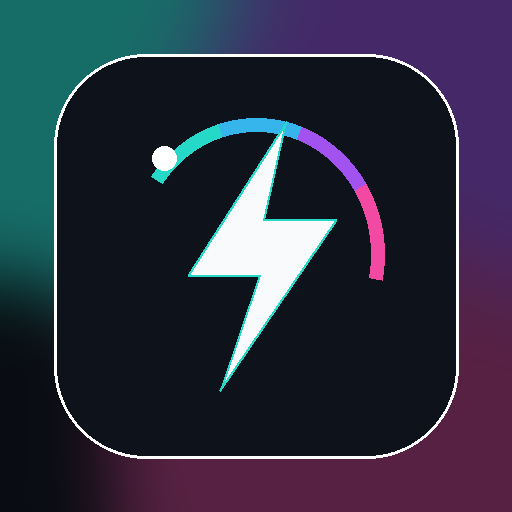
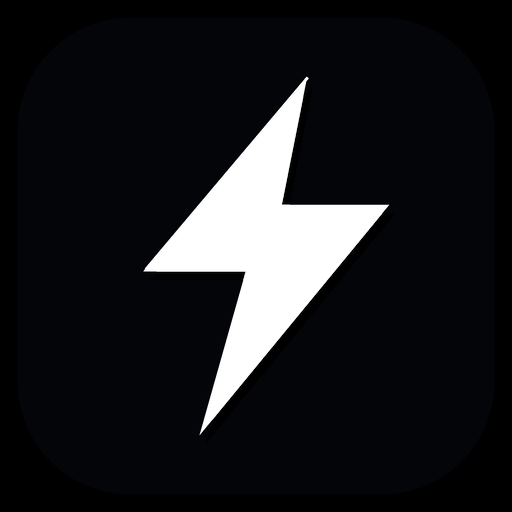
v10.1

diff --git a/index.html b/index.html
@@ -8,8 +8,9 @@
   <meta name="apple-mobile-web-app-title" content="Ventas SPH">
   <meta name="apple-mobile-web-app-status-bar-style" content="default">
   <title>Ventas SPH</title>
+  <link rel="icon" href="favicon.svg" type="image/svg+xml">
   <link rel="manifest" href="manifest.json">
-  <link rel="apple-touch-icon" href="icon-192.png">
+  <link rel="apple-touch-icon" sizes="180x180" href="icon-180.png">
   <style>
     :root{
       --bg:#080b10;
@@ -120,39 +121,27 @@
     }
 
     .appLogo{
-      width:34px;
-      height:34px;
-      border-radius:12px;
+      width:32px;
+      height:32px;
       flex:0 0 auto;
-      background:
-        radial-gradient(circle at 28% 20%,rgba(255,255,255,.42),transparent 20%),
-        conic-gradient(from 145deg,var(--turq),var(--blue),var(--lila),var(--pink),var(--turq));
-      box-shadow:0 0 0 1px rgba(255,255,255,.16), 0 10px 26px rgba(37,216,199,.16);
       position:relative;
-      overflow:hidden;
+      background:transparent;
+      border-radius:0;
+      box-shadow:none;
+      overflow:visible;
     }
 
     .appLogo:before{
       content:"";
       position:absolute;
-      inset:7px;
-      border-radius:9px;
-      background:linear-gradient(145deg,#0b1018,#151c27);
-      box-shadow:inset 0 0 0 1px rgba(255,255,255,.10);
+      inset:2px 6px;
+      background:var(--text);
+      clip-path:polygon(58% 0,18% 52%,46% 52%,34% 100%,84% 38%,55% 38%);
+      filter:drop-shadow(0 8px 16px var(--primaryShadow));
     }
 
     .appLogo:after{
-      content:"";
-      position:absolute;
-      left:10px;
-      top:9px;
-      width:14px;
-      height:14px;
-      border-right:3px solid rgba(255,255,255,.92);
-      border-bottom:3px solid rgba(255,255,255,.92);
-      transform:rotate(-35deg);
-      border-radius:2px;
-      filter:drop-shadow(0 0 6px rgba(37,216,199,.45));
+      content:none;
     }
 
     .day-card.clickable{
@@ -475,6 +464,17 @@
       color:var(--muted);
       line-height:1.38;
       font-size:.84rem;
+    }
+
+    .settingsInfoText{
+      margin-top:10px;
+      color:var(--muted);
+      font-size:.82rem;
+      line-height:1.42;
+      background:transparent!important;
+      border:0!important;
+      padding:0!important;
+      box-shadow:none!important;
     }
 
     .goalbar{
@@ -1208,8 +1208,8 @@
     .panel,.card,.day-card,.sale-box{background:linear-gradient(180deg,var(--glass1),var(--glass2))!important;border-color:var(--line)!important;box-shadow:var(--shadow)!important;}
     .detailSheet,.mainMenuPanel{background:var(--sheetBg)!important;border-color:var(--line)!important;}
     .mainMenuOverlay,.detailOverlay{background:var(--menuOverlay)!important;}
-    .appLogo{background:radial-gradient(circle at 28% 20%,rgba(255,255,255,.42),transparent 20%),conic-gradient(from 145deg,var(--turq),var(--blue),var(--lila),var(--pink),var(--turq))!important;box-shadow:0 0 0 1px var(--line),0 10px 26px var(--primaryShadow)!important;}
-    .appLogo:before{background:var(--logoCore)!important;}
+    .appLogo{background:transparent!important;box-shadow:none!important;}
+    .appLogo:before{background:var(--appTopText, var(--text))!important;}
     input,select,textarea{background:var(--fieldBg)!important;border-color:var(--controlBorder)!important;color:var(--text)!important;}
     input[type="month"],input[type="date"]{color-scheme:inherit;}
     input:focus,select:focus,textarea:focus{border-color:color-mix(in srgb,var(--turq) 80%,white)!important;box-shadow:0 0 0 4px color-mix(in srgb,var(--turq) 18%,transparent)!important;}
@@ -2491,7 +2491,7 @@
             </select>
           </label>
         </div>
-        <div class="hint">Puedes dejarlo automático para que siga el iPhone, o forzarlo en claro/oscuro. El color cambia botones, menú, barras y acentos principales.</div>
+        <div class="settingsInfoText">Puedes dejarlo automático para que siga el iPhone, o forzarlo en claro/oscuro. El color cambia botones, menú, barras y acentos principales.</div>
       </div>
 
       <div class="panel">
@@ -2684,7 +2684,7 @@
 
   var SERVICES = [{"id":"none","name":"Sin SVA","basePrice":0,"price":0,"promo":""},{"id":"ta24","name":"TA24H","basePrice":4.12,"price":4.12,"promo":"Para todos"},{"id":"ta24plus","name":"TA24H Plus","basePrice":5.78,"price":5.78,"promo":"Para todos"},{"id":"ta24pyme20","name":"TA24H Pyme 2.0","basePrice":8.26,"price":8.26,"promo":"Para todos"},{"id":"ta24pyme30","name":"TA24H Pyme 3.0","basePrice":10.73,"price":10.73,"promo":"Para todos"},{"id":"sihconfort","name":"SIHConfort","basePrice":8.26,"price":8.26,"promo":"Para todos"},{"id":"sig","name":"SIG","basePrice":11.15,"price":11.15,"promo":"Para todos"},{"id":"tag","name":"TAG","basePrice":9.08,"price":9.08,"promo":"Para todos"},{"id":"ta24gas","name":"TA24HGas","basePrice":4.12,"price":4.12,"promo":"Para todos"},{"id":"ta24plusgas","name":"TA24H Plus Gas","basePrice":5.78,"price":5.78,"promo":"Para todos"},{"id":"tvmovistarplus","name":"TVMovistarPlus+","basePrice":8.26,"price":8.26,"promo":"Para todos"}];
 
-  var TARIFFS = [{"id":"v35-10","name":"V35","group":"Precio fijo","type":"luz","maxPower":10,"p1":0.090137,"p2":0.090137,"energy":0.0999,"svaMandatory":true,"permissionSva":false,"svaLabel":"SVA obligatorio","cashbackEligible":false,"notes":"Potencia permitida: hasta 10 kW. TA24H Plus obligatorio.","exc":0,"isBvSolar":false,"energyIva":0.120879,"p1Iva":0.109066,"p2Iva":0.109066,"shortName":"V35"},{"id":"v34-15","name":"V34","group":"Precio fijo","type":"luz","maxPower":15,"p1":0.090137,"p2":0.090137,"energy":0.1099,"svaMandatory":true,"permissionSva":false,"svaLabel":"SVA obligatorio","cashbackEligible":false,"notes":"Potencia permitida: hasta 15 kW. TA24H Plus obligatorio.","exc":0,"isBvSolar":false,"energyIva":0.132979,"p1Iva":0.109066,"p2Iva":0.109066,"shortName":"V34"},{"id":"v33-15","name":"V33","group":"Precio fijo","type":"luz","maxPower":15,"p1":0.090137,"p2":0.090137,"energy":0.1199,"svaMandatory":true,"permissionSva":false,"svaLabel":"SVA obligatorio","cashbackEligible":false,"notes":"Potencia permitida: hasta 15 kW. SVA obligatorio.","exc":0,"isBvSolar":false,"energyIva":0.145079,"p1Iva":0.109066,"p2Iva":0.109066,"shortName":"V33"},{"id":"v32-renovable-10","name":"V32 Ahorro Renovable","group":"Precio fijo","type":"luz","maxPower":10,"p1":0.090137,"p2":0.090137,"energy":0.1299,"svaMandatory":false,"permissionSva":false,"svaLabel":"SVA opcional","cashbackEligible":true,"notes":"Potencia permitida: hasta 10 kW. Ahorro renovable.","exc":0,"isBvSolar":false,"energyIva":0.157179,"p1Iva":0.109066,"p2Iva":0.109066,"shortName":"V32 Ahorro Renovable"},{"id":"v32-15","name":"V32","group":"Precio fijo","type":"luz","maxPower":15,"p1":0.090137,"p2":0.090137,"energy":0.1299,"svaMandatory":false,"permissionSva":true,"svaLabel":"Sin SVA con permiso","cashbackEligible":true,"notes":"Potencia permitida: hasta 15 kW. Puede ir sin SVA con permiso.","exc":0,"isBvSolar":false,"energyIva":0.157179,"p1Iva":0.109066,"p2Iva":0.109066,"shortName":"V32"},{"id":"v31-15","name":"V31","group":"Precio fijo","type":"luz","maxPower":15,"p1":0.090137,"p2":0.090137,"energy":0.1499,"svaMandatory":false,"permissionSva":false,"svaLabel":"SVA opcional","cashbackEligible":true,"notes":"Potencia permitida: hasta 15 kW.","exc":0,"isBvSolar":false,"energyIva":0.181379,"p1Iva":0.109066,"p2Iva":0.109066,"shortName":"V31"},{"id":"v30-15","name":"V30","group":"Precio fijo","type":"luz","maxPower":15,"p1":0.090137,"p2":0.090137,"energy":0.1599,"svaMandatory":false,"permissionSva":false,"svaLabel":"SVA opcional","cashbackEligible":true,"notes":"Potencia permitida: hasta 15 kW.","exc":0,"isBvSolar":false,"energyIva":0.193479,"p1Iva":0.109066,"p2Iva":0.109066,"shortName":"V30"},{"id":"pyme-v34-15","name":"Pyme V34","group":"Precio fijo Pyme","type":"luz","maxPower":15,"p1":0.090137,"p2":0.090137,"energy":0.1099,"svaMandatory":true,"permissionSva":false,"svaLabel":"SVA obligatorio","cashbackEligible":false,"notes":"Potencia permitida: hasta 15 kW. Ahorro pyme.","exc":0,"isBvSolar":false,"energyIva":0.132979,"p1Iva":0.109066,"p2Iva":0.109066,"shortName":"Pyme V34"},{"id":"pyme-v33-15","name":"Pyme V33","group":"Precio fijo Pyme","type":"luz","maxPower":15,"p1":0.090137,"p2":0.090137,"energy":0.1199,"svaMandatory":true,"permissionSva":false,"svaLabel":"SVA obligatorio","cashbackEligible":false,"notes":"Potencia permitida: hasta 15 kW. Ahorro pyme.","exc":0,"isBvSolar":false,"energyIva":0.145079,"p1Iva":0.109066,"p2Iva":0.109066,"shortName":"Pyme V33"},{"id":"pyme-v32-15","name":"Pyme V32","group":"Precio fijo Pyme","type":"luz","maxPower":15,"p1":0.090137,"p2":0.090137,"energy":0.1299,"svaMandatory":false,"permissionSva":true,"svaLabel":"Sin SVA con permiso","cashbackEligible":true,"notes":"Potencia permitida: hasta 15 kW. Puede ir sin SVA con permiso.","exc":0,"isBvSolar":false,"energyIva":0.157179,"p1Iva":0.109066,"p2Iva":0.109066,"shortName":"Pyme V32"},{"id":"pyme-v31-15","name":"Pyme V31","group":"Precio fijo Pyme","type":"luz","maxPower":15,"p1":0.090137,"p2":0.090137,"energy":0.1499,"svaMandatory":false,"permissionSva":false,"svaLabel":"SVA opcional","cashbackEligible":true,"notes":"Potencia permitida: hasta 15 kW.","exc":0,"isBvSolar":false,"energyIva":0.181379,"p1Iva":0.109066,"p2Iva":0.109066,"shortName":"Pyme V31"},{"id":"pyme-v30-15","name":"Pyme V30","group":"Precio fijo Pyme","type":"luz","maxPower":15,"p1":0.090137,"p2":0.090137,"energy":0.1599,"svaMandatory":false,"permissionSva":false,"svaLabel":"SVA opcional","cashbackEligible":true,"notes":"Potencia permitida: hasta 15 kW.","exc":0,"isBvSolar":false,"energyIva":0.193479,"p1Iva":0.109066,"p2Iva":0.109066,"shortName":"Pyme V30"},{"id":"tap-v32-10","name":"TAP V32","group":"TAP","type":"luz","maxPower":10,"p1":0.084431,"p2":0.001987,"energy":0.1699,"svaMandatory":false,"permissionSva":true,"svaLabel":"Sin SVA con permiso","cashbackEligible":true,"notes":"Potencia permitida: hasta 10 kW. Ahorro potencia. Sin SVA con permiso.","exc":0,"isBvSolar":false,"energyIva":0.205579,"p1Iva":0.102162,"p2Iva":0.002404,"shortName":"TAP V32"},{"id":"tap-hogar-v34-10","name":"TAP V34 Hogar","group":"TAP","type":"luz","maxPower":10,"p1":0.084431,"p2":0.001987,"energy":0.1649,"svaMandatory":true,"permissionSva":false,"svaLabel":"SVA obligatorio","cashbackEligible":false,"notes":"Potencia permitida: hasta 10 kW. Ahorro potencia hogar.","exc":0,"isBvSolar":false,"energyIva":0.199529,"p1Iva":0.102162,"p2Iva":0.002404,"shortName":"TAP V34 Hogar"},{"id":"solar-v30-15","name":"Solar V30","group":"Solar","type":"luz","maxPower":15,"p1":0.090137,"p2":0.090137,"energy":0.1399,"svaMandatory":false,"permissionSva":false,"svaLabel":"SVA opcional","cashbackEligible":true,"notes":"Potencia permitida: hasta 15 kW. Excedente 0,06 €/kWh.","exc":0.06,"isBvSolar":false,"energyIva":0.169279,"p1Iva":0.109066,"p2Iva":0.109066,"shortName":"Solar V30"},{"id":"bv-v26-15","name":"Batería Virtual V26","group":"Batería Virtual","type":"luz","maxPower":15,"p1":0.090137,"p2":0.090137,"energy":0.1299,"svaMandatory":false,"permissionSva":false,"svaLabel":"SVA opcional","cashbackEligible":true,"notes":"Potencia permitida: hasta 15 kW. Excedente 0 €/kWh.","exc":0,"isBvSolar":true,"energyIva":0.157179,"p1Iva":0.109066,"p2Iva":0.109066,"shortName":"Batería Virtual V26"},{"id":"dh-v33-15","name":"Discriminación Horaria V33","group":"Discriminación horaria","type":"luz","maxPower":15,"p1":0.120274,"p2":0.06,"energy":0.1659,"svaMandatory":true,"permissionSva":false,"svaLabel":"SVA obligatorio","cashbackEligible":false,"notes":"Potencia permitida: hasta 15 kW. Consumo punta, llano y valle.","exc":0,"isBvSolar":false,"energyIva":0.200739,"p1Iva":0.145532,"p2Iva":0.0726,"shortName":"Discriminación Horaria V33","isDh":true,"energyPeriods":[0.1659,0.1159,0.0969]},{"id":"luz-mplus-v31-15","name":"Movistar+ V31","group":"Movistar+","type":"luz","maxPower":15,"p1":0.090137,"p2":0.090137,"energy":0.1299,"svaMandatory":true,"permissionSva":false,"svaLabel":"SVA obligatorio","cashbackEligible":false,"notes":"Potencia permitida: hasta 15 kW. Precio energía V32. TVMovistarPlus+ obligatorio.","exc":0,"isBvSolar":false,"energyIva":0.157179,"p1Iva":0.109066,"p2Iva":0.109066,"shortName":"Movistar+ V31"},{"id":"tranquilisima-10","name":"Tranquilísima","group":"Tranquilísima","type":"luz","maxPower":10,"p1":0.081918,"p2":0.081918,"energy":0.1399,"svaMandatory":true,"permissionSva":false,"svaLabel":"SVA obligatorio","cashbackEligible":false,"notes":"Potencia permitida: hasta 10 kW. SVA obligatorio.","exc":0,"isBvSolar":false,"energyIva":0.169279,"p1Iva":0.099121,"p2Iva":0.099121,"shortName":"Tranquilísima"},{"id":"smart-10h-v33-15","name":"Tarifa Smart 10h V33","group":"Smart","type":"luz","maxPower":15,"p1":0.090137,"p2":0.090137,"energy":0.1699,"svaMandatory":false,"permissionSva":false,"svaLabel":"SVA opcional","cashbackEligible":true,"notes":"Potencia permitida: hasta 15 kW. 50% durante 10h.","exc":0,"isBvSolar":false,"energyIva":0.205579,"p1Iva":0.109066,"p2Iva":0.109066,"shortName":"Tarifa Smart 10h V33"},{"id":"empresa30-l2","name":"Empresa 3.0 L2","group":"3.0TD","type":"luz30","energy":0.1549,"energyPeriods":[0.1549,0.1549,0.1549,0.1549,0.1549,0.1549],"powers":[0.05726,0.035342,0.016164,0.013425,0.010685,0.007945],"maxPower":null,"svaMandatory":false,"permissionSva":false,"svaLabel":"SVA opcional","cashbackEligible":false,"notes":"Consumo único.","energyIva":0.187429,"p1Iva":0.0,"p2Iva":0.0,"shortName":"Empresa 3.0 L2"},{"id":"empresa30-l4","name":"Empresa 3.0 L4","group":"3.0TD","type":"luz30","energy":0.1449,"energyPeriods":[0.1449,0.1449,0.1449,0.1449,0.1449,0.1449],"powers":[0.05726,0.035342,0.016164,0.013425,0.010685,0.007945],"maxPower":null,"svaMandatory":false,"permissionSva":false,"svaLabel":"SVA opcional","cashbackEligible":false,"notes":"Consumo único.","energyIva":0.175329,"p1Iva":0.0,"p2Iva":0.0,"shortName":"Empresa 3.0 L4"},{"id":"empresa30-l8","name":"Empresa 3.0 L8","group":"3.0TD DH","type":"luz30","energy":0.1649,"energyPeriods":[0.1649,0.1609,0.1569,0.1549,0.1259,0.1159],"powers":[0.05726,0.035342,0.016164,0.013425,0.010685,0.007945],"maxPower":null,"svaMandatory":false,"permissionSva":false,"svaLabel":"SVA opcional","cashbackEligible":false,"notes":"Consumo por periodos P1-P6.","energyIva":0.199529,"p1Iva":0.0,"p2Iva":0.0,"shortName":"Empresa 3.0 L8","isDh30":true},{"id":"dh30-l4","name":"Discriminación Horaria 3.0 L4","group":"3.0TD DH","type":"luz30","energy":0.1699,"energyPeriods":[0.1699,0.1659,0.1619,0.1599,0.1309,0.1209],"powers":[0.05726,0.035342,0.016164,0.013425,0.010685,0.007945],"maxPower":null,"svaMandatory":false,"permissionSva":false,"svaLabel":"SVA opcional","cashbackEligible":false,"notes":"Consumo por periodos P1-P6.","energyIva":0.205579,"p1Iva":0.0,"p2Iva":0.0,"shortName":"Discriminación Horaria 3.0 L4","isDh30":true},{"id":"comercio30-l4","name":"Comercio 3.0 L4","group":"3.0TD DH","type":"luz30","energy":0.11495,"energyPeriods":[0.11495,0.11495,0.11495,0.11495,0.11495,0.2299],"powers":[0.05726,0.035342,0.016164,0.013425,0.010685,0.007945],"maxPower":null,"svaMandatory":false,"permissionSva":false,"svaLabel":"SVA opcional","cashbackEligible":false,"notes":"Consumo por periodos P1-P6.","energyIva":0.13909,"p1Iva":0.0,"p2Iva":0.0,"shortName":"Comercio 3.0 L4","isDh30":true},{"id":"gas-rl1-v10","name":"Gas RL.1 V10","group":"Gas","type":"gas","gasFixed":6.9,"energy":0.0899,"maxPower":null,"svaMandatory":true,"permissionSva":false,"svaLabel":"SVA obligatorio","cashbackEligible":false,"notes":"RL1. Fijo mensual y energía. SVA gas obligatorio.","energyIva":0.108779,"gasFixedIva":8.349,"shortName":"Gas RL.1 V10"},{"id":"gas-rl1-v11","name":"Gas RL.1 V11","group":"Gas","type":"gas","gasFixed":6.9,"energy":0.0799,"maxPower":null,"svaMandatory":true,"permissionSva":false,"svaLabel":"SVA obligatorio","cashbackEligible":false,"notes":"RL1. Fijo mensual y energía. SVA gas obligatorio.","energyIva":0.096679,"gasFixedIva":8.349,"shortName":"Gas RL.1 V11"},{"id":"gas-rl1-v12","name":"Gas ahorro RL.1 V12","group":"Gas","type":"gas","gasFixed":6.9,"energy":0.0699,"maxPower":null,"svaMandatory":true,"permissionSva":false,"svaLabel":"SVA obligatorio","cashbackEligible":false,"notes":"RL1. Fijo mensual y energía. SVA gas obligatorio.","energyIva":0.084579,"gasFixedIva":8.349,"shortName":"Gas ahorro RL.1 V12"},{"id":"gas-rl2-v10","name":"Gas RL.2 V10","group":"Gas","type":"gas","gasFixed":13.9,"energy":0.0899,"maxPower":null,"svaMandatory":true,"permissionSva":false,"svaLabel":"SVA obligatorio","cashbackEligible":false,"notes":"RL2. Fijo mensual y energía. SVA gas obligatorio.","energyIva":0.108779,"gasFixedIva":16.819,"shortName":"Gas RL.2 V10"},{"id":"gas-rl2-v11","name":"Gas RL.2 V11","group":"Gas","type":"gas","gasFixed":13.9,"energy":0.0799,"maxPower":null,"svaMandatory":true,"permissionSva":false,"svaLabel":"SVA obligatorio","cashbackEligible":false,"notes":"RL2. Fijo mensual y energía. SVA gas obligatorio.","energyIva":0.096679,"gasFixedIva":16.819,"shortName":"Gas RL.2 V11"},{"id":"gas-rl2-v12","name":"Gas ahorro RL.2 V12","group":"Gas","type":"gas","gasFixed":13.9,"energy":0.0699,"maxPower":null,"svaMandatory":true,"permissionSva":false,"svaLabel":"SVA obligatorio","cashbackEligible":false,"notes":"RL2. Fijo mensual y energía. SVA gas obligatorio.","energyIva":0.084579,"gasFixedIva":16.819,"shortName":"Gas ahorro RL.2 V12"},{"id":"gas-rl3-v10","name":"Gas RL.3 V10","group":"Gas","type":"gas","gasFixed":22.9,"energy":0.0899,"maxPower":null,"svaMandatory":true,"permissionSva":false,"svaLabel":"SVA obligatorio","cashbackEligible":false,"notes":"RL3. Fijo mensual y energía. SVA gas obligatorio.","energyIva":0.108779,"gasFixedIva":27.709,"shortName":"Gas RL.3 V10"},{"id":"gas-rl3-v11","name":"Gas RL.3 V11","group":"Gas","type":"gas","gasFixed":22.9,"energy":0.0799,"maxPower":null,"svaMandatory":true,"permissionSva":false,"svaLabel":"SVA obligatorio","cashbackEligible":false,"notes":"RL3. Fijo mensual y energía. SVA gas obligatorio.","energyIva":0.096679,"gasFixedIva":27.709,"shortName":"Gas RL.3 V11"},{"id":"gas-rl3-v12","name":"Gas ahorro RL.3 V12","group":"Gas","type":"gas","gasFixed":22.9,"energy":0.0699,"maxPower":null,"svaMandatory":true,"permissionSva":false,"svaLabel":"SVA obligatorio","cashbackEligible":false,"notes":"RL3. Fijo mensual y energía. SVA gas obligatorio.","energyIva":0.084579,"gasFixedIva":27.709,"shortName":"Gas ahorro RL.3 V12"}];
+  var TARIFFS = [{"id":"v35-10","name":"V35","group":"Precio fijo","type":"luz","maxPower":10,"p1":0.090137,"p2":0.090137,"energy":0.0999,"svaMandatory":true,"permissionSva":false,"svaLabel":"SVA obligatorio","cashbackEligible":false,"notes":"Potencia permitida: hasta 10 kW. TA24H Plus obligatorio.","exc":0,"isBvSolar":false,"energyIva":0.120879,"p1Iva":0.109066,"p2Iva":0.109066,"shortName":"V35"},{"id":"v34-15","name":"V34","group":"Precio fijo","type":"luz","maxPower":15,"p1":0.090137,"p2":0.090137,"energy":0.1099,"svaMandatory":true,"permissionSva":false,"svaLabel":"SVA obligatorio","cashbackEligible":false,"notes":"Potencia permitida: hasta 15 kW. TA24H Plus obligatorio.","exc":0,"isBvSolar":false,"energyIva":0.132979,"p1Iva":0.109066,"p2Iva":0.109066,"shortName":"V34"},{"id":"v33-15","name":"V33","group":"Precio fijo","type":"luz","maxPower":15,"p1":0.090137,"p2":0.090137,"energy":0.1199,"svaMandatory":true,"permissionSva":false,"svaLabel":"SVA obligatorio","cashbackEligible":false,"notes":"Potencia permitida: hasta 15 kW. SVA obligatorio.","exc":0,"isBvSolar":false,"energyIva":0.145079,"p1Iva":0.109066,"p2Iva":0.109066,"shortName":"V33"},{"id":"v32-10","name":"V32","group":"Precio fijo","type":"luz","maxPower":10,"p1":0.090137,"p2":0.090137,"energy":0.1299,"svaMandatory":false,"permissionSva":false,"svaLabel":"SVA opcional","cashbackEligible":true,"notes":"Potencia permitida: hasta 10 kW.","exc":0,"isBvSolar":false,"energyIva":0.157179,"p1Iva":0.109066,"p2Iva":0.109066,"shortName":"V32"},{"id":"v32-15","name":"V32","group":"Precio fijo","type":"luz","maxPower":15,"p1":0.090137,"p2":0.090137,"energy":0.1299,"svaMandatory":false,"permissionSva":true,"svaLabel":"Sin SVA con permiso","cashbackEligible":true,"notes":"Potencia permitida: hasta 15 kW. Puede ir sin SVA con permiso.","exc":0,"isBvSolar":false,"energyIva":0.157179,"p1Iva":0.109066,"p2Iva":0.109066,"shortName":"V32"},{"id":"v31-15","name":"V31","group":"Precio fijo","type":"luz","maxPower":15,"p1":0.090137,"p2":0.090137,"energy":0.1499,"svaMandatory":false,"permissionSva":false,"svaLabel":"SVA opcional","cashbackEligible":true,"notes":"Potencia permitida: hasta 15 kW.","exc":0,"isBvSolar":false,"energyIva":0.181379,"p1Iva":0.109066,"p2Iva":0.109066,"shortName":"V31"},{"id":"v30-15","name":"V30","group":"Precio fijo","type":"luz","maxPower":15,"p1":0.090137,"p2":0.090137,"energy":0.1599,"svaMandatory":false,"permissionSva":false,"svaLabel":"SVA opcional","cashbackEligible":true,"notes":"Potencia permitida: hasta 15 kW.","exc":0,"isBvSolar":false,"energyIva":0.193479,"p1Iva":0.109066,"p2Iva":0.109066,"shortName":"V30"},{"id":"pyme-v34-15","name":"Pyme V34","group":"Precio fijo Pyme","type":"luz","maxPower":15,"p1":0.090137,"p2":0.090137,"energy":0.1099,"svaMandatory":true,"permissionSva":false,"svaLabel":"SVA obligatorio","cashbackEligible":false,"notes":"Potencia permitida: hasta 15 kW. Ahorro pyme.","exc":0,"isBvSolar":false,"energyIva":0.132979,"p1Iva":0.109066,"p2Iva":0.109066,"shortName":"Pyme V34"},{"id":"pyme-v33-15","name":"Pyme V33","group":"Precio fijo Pyme","type":"luz","maxPower":15,"p1":0.090137,"p2":0.090137,"energy":0.1199,"svaMandatory":true,"permissionSva":false,"svaLabel":"SVA obligatorio","cashbackEligible":false,"notes":"Potencia permitida: hasta 15 kW. Ahorro pyme.","exc":0,"isBvSolar":false,"energyIva":0.145079,"p1Iva":0.109066,"p2Iva":0.109066,"shortName":"Pyme V33"},{"id":"pyme-v32-15","name":"Pyme V32","group":"Precio fijo Pyme","type":"luz","maxPower":15,"p1":0.090137,"p2":0.090137,"energy":0.1299,"svaMandatory":false,"permissionSva":true,"svaLabel":"Sin SVA con permiso","cashbackEligible":true,"notes":"Potencia permitida: hasta 15 kW. Puede ir sin SVA con permiso.","exc":0,"isBvSolar":false,"energyIva":0.157179,"p1Iva":0.109066,"p2Iva":0.109066,"shortName":"Pyme V32"},{"id":"pyme-v31-15","name":"Pyme V31","group":"Precio fijo Pyme","type":"luz","maxPower":15,"p1":0.090137,"p2":0.090137,"energy":0.1499,"svaMandatory":false,"permissionSva":false,"svaLabel":"SVA opcional","cashbackEligible":true,"notes":"Potencia permitida: hasta 15 kW.","exc":0,"isBvSolar":false,"energyIva":0.181379,"p1Iva":0.109066,"p2Iva":0.109066,"shortName":"Pyme V31"},{"id":"pyme-v30-15","name":"Pyme V30","group":"Precio fijo Pyme","type":"luz","maxPower":15,"p1":0.090137,"p2":0.090137,"energy":0.1599,"svaMandatory":false,"permissionSva":false,"svaLabel":"SVA opcional","cashbackEligible":true,"notes":"Potencia permitida: hasta 15 kW.","exc":0,"isBvSolar":false,"energyIva":0.193479,"p1Iva":0.109066,"p2Iva":0.109066,"shortName":"Pyme V30"},{"id":"tap-v32-10","name":"TAP V32","group":"TAP","type":"luz","maxPower":10,"p1":0.084431,"p2":0.001987,"energy":0.1699,"svaMandatory":false,"permissionSva":true,"svaLabel":"Sin SVA con permiso","cashbackEligible":true,"notes":"Potencia permitida: hasta 10 kW. Ahorro potencia. Sin SVA con permiso.","exc":0,"isBvSolar":false,"energyIva":0.205579,"p1Iva":0.102162,"p2Iva":0.002404,"shortName":"TAP V32"},{"id":"tap-hogar-v34-10","name":"TAP V34 Hogar","group":"TAP","type":"luz","maxPower":10,"p1":0.084431,"p2":0.001987,"energy":0.1649,"svaMandatory":true,"permissionSva":false,"svaLabel":"SVA obligatorio","cashbackEligible":false,"notes":"Potencia permitida: hasta 10 kW. Ahorro potencia hogar.","exc":0,"isBvSolar":false,"energyIva":0.199529,"p1Iva":0.102162,"p2Iva":0.002404,"shortName":"TAP V34 Hogar"},{"id":"solar-v30-15","name":"Solar V30","group":"Solar","type":"luz","maxPower":15,"p1":0.090137,"p2":0.090137,"energy":0.1399,"svaMandatory":false,"permissionSva":false,"svaLabel":"SVA opcional","cashbackEligible":true,"notes":"Potencia permitida: hasta 15 kW. Excedente 0,06 €/kWh.","exc":0.06,"isBvSolar":false,"energyIva":0.169279,"p1Iva":0.109066,"p2Iva":0.109066,"shortName":"Solar V30"},{"id":"bv-v26-15","name":"Batería Virtual V26","group":"Batería Virtual","type":"luz","maxPower":15,"p1":0.090137,"p2":0.090137,"energy":0.1299,"svaMandatory":false,"permissionSva":false,"svaLabel":"SVA opcional","cashbackEligible":true,"notes":"Potencia permitida: hasta 15 kW. Excedente 0 €/kWh.","exc":0,"isBvSolar":true,"energyIva":0.157179,"p1Iva":0.109066,"p2Iva":0.109066,"shortName":"Batería Virtual V26"},{"id":"dh-v33-15","name":"Discriminación Horaria V33","group":"Discriminación horaria","type":"luz","maxPower":15,"p1":0.120274,"p2":0.06,"energy":0.1659,"svaMandatory":true,"permissionSva":false,"svaLabel":"SVA obligatorio","cashbackEligible":false,"notes":"Potencia permitida: hasta 15 kW. Consumo punta, llano y valle.","exc":0,"isBvSolar":false,"energyIva":0.200739,"p1Iva":0.145532,"p2Iva":0.0726,"shortName":"Discriminación Horaria V33","isDh":true,"energyPeriods":[0.1659,0.1159,0.0969]},{"id":"luz-mplus-v31-15","name":"Movistar+ V31","group":"Movistar+","type":"luz","maxPower":15,"p1":0.090137,"p2":0.090137,"energy":0.1299,"svaMandatory":true,"permissionSva":false,"svaLabel":"SVA obligatorio","cashbackEligible":false,"notes":"Potencia permitida: hasta 15 kW. Precio energía V32. TVMovistarPlus+ obligatorio.","exc":0,"isBvSolar":false,"energyIva":0.157179,"p1Iva":0.109066,"p2Iva":0.109066,"shortName":"Movistar+ V31"},{"id":"tranquilisima-10","name":"Tranquilísima","group":"Tranquilísima","type":"luz","maxPower":10,"p1":0.081918,"p2":0.081918,"energy":0.1399,"svaMandatory":true,"permissionSva":false,"svaLabel":"SVA obligatorio","cashbackEligible":false,"notes":"Potencia permitida: hasta 10 kW. SVA obligatorio.","exc":0,"isBvSolar":false,"energyIva":0.169279,"p1Iva":0.099121,"p2Iva":0.099121,"shortName":"Tranquilísima"},{"id":"smart-10h-v33-15","name":"Tarifa Smart 10h V33","group":"Smart","type":"luz","maxPower":15,"p1":0.090137,"p2":0.090137,"energy":0.1699,"svaMandatory":false,"permissionSva":false,"svaLabel":"SVA opcional","cashbackEligible":true,"notes":"Potencia permitida: hasta 15 kW. 50% durante 10h. No aparece en calculadora porque no se puede calcular.","exc":0,"isBvSolar":false,"energyIva":0.205579,"p1Iva":0.109066,"p2Iva":0.109066,"shortName":"Tarifa Smart 10h V33","excludeFromCalculator":true},{"id":"empresa30-l2","name":"Empresa 3.0 L2","group":"3.0TD","type":"luz30","energy":0.1549,"energyPeriods":[0.1549,0.1549,0.1549,0.1549,0.1549,0.1549],"powers":[0.05726,0.035342,0.016164,0.013425,0.010685,0.007945],"maxPower":null,"svaMandatory":false,"permissionSva":false,"svaLabel":"SVA opcional","cashbackEligible":false,"notes":"Consumo único.","energyIva":0.187429,"p1Iva":0.0,"p2Iva":0.0,"shortName":"Empresa 3.0 L2"},{"id":"empresa30-l4","name":"Empresa 3.0 L4","group":"3.0TD","type":"luz30","energy":0.1449,"energyPeriods":[0.1449,0.1449,0.1449,0.1449,0.1449,0.1449],"powers":[0.05726,0.035342,0.016164,0.013425,0.010685,0.007945],"maxPower":null,"svaMandatory":false,"permissionSva":false,"svaLabel":"SVA opcional","cashbackEligible":false,"notes":"Consumo único.","energyIva":0.175329,"p1Iva":0.0,"p2Iva":0.0,"shortName":"Empresa 3.0 L4"},{"id":"empresa30-l8","name":"Empresa 3.0 L8","group":"3.0TD DH","type":"luz30","energy":0.1649,"energyPeriods":[0.1649,0.1609,0.1569,0.1549,0.1259,0.1159],"powers":[0.05726,0.035342,0.016164,0.013425,0.010685,0.007945],"maxPower":null,"svaMandatory":false,"permissionSva":false,"svaLabel":"SVA opcional","cashbackEligible":false,"notes":"Consumo por periodos P1-P6.","energyIva":0.199529,"p1Iva":0.0,"p2Iva":0.0,"shortName":"Empresa 3.0 L8","isDh30":true},{"id":"dh30-l4","name":"Discriminación Horaria 3.0 L4","group":"3.0TD DH","type":"luz30","energy":0.1699,"energyPeriods":[0.1699,0.1659,0.1619,0.1599,0.1309,0.1209],"powers":[0.05726,0.035342,0.016164,0.013425,0.010685,0.007945],"maxPower":null,"svaMandatory":false,"permissionSva":false,"svaLabel":"SVA opcional","cashbackEligible":false,"notes":"Consumo por periodos P1-P6.","energyIva":0.205579,"p1Iva":0.0,"p2Iva":0.0,"shortName":"Discriminación Horaria 3.0 L4","isDh30":true},{"id":"comercio30-l4","name":"Comercio 3.0 L4","group":"3.0TD DH","type":"luz30","energy":0.11495,"energyPeriods":[0.11495,0.11495,0.11495,0.11495,0.11495,0.2299],"powers":[0.05726,0.035342,0.016164,0.013425,0.010685,0.007945],"maxPower":null,"svaMandatory":false,"permissionSva":false,"svaLabel":"SVA opcional","cashbackEligible":false,"notes":"Consumo por periodos P1-P6.","energyIva":0.13909,"p1Iva":0.0,"p2Iva":0.0,"shortName":"Comercio 3.0 L4","isDh30":true},{"id":"gas-rl1-v10","name":"Gas RL.1 V10","group":"Gas","type":"gas","gasFixed":6.9,"energy":0.0899,"maxPower":null,"svaMandatory":true,"permissionSva":false,"svaLabel":"SVA obligatorio","cashbackEligible":false,"notes":"RL1. Fijo mensual y energía. SVA gas obligatorio.","energyIva":0.108779,"gasFixedIva":8.349,"shortName":"Gas RL.1 V10"},{"id":"gas-rl1-v11","name":"Gas RL.1 V11","group":"Gas","type":"gas","gasFixed":6.9,"energy":0.0799,"maxPower":null,"svaMandatory":true,"permissionSva":false,"svaLabel":"SVA obligatorio","cashbackEligible":false,"notes":"RL1. Fijo mensual y energía. SVA gas obligatorio.","energyIva":0.096679,"gasFixedIva":8.349,"shortName":"Gas RL.1 V11"},{"id":"gas-rl1-v12","name":"Gas ahorro RL.1 V12","group":"Gas","type":"gas","gasFixed":6.9,"energy":0.0699,"maxPower":null,"svaMandatory":true,"permissionSva":false,"svaLabel":"SVA obligatorio","cashbackEligible":false,"notes":"RL1. Fijo mensual y energía. SVA gas obligatorio.","energyIva":0.084579,"gasFixedIva":8.349,"shortName":"Gas ahorro RL.1 V12"},{"id":"gas-rl2-v10","name":"Gas RL.2 V10","group":"Gas","type":"gas","gasFixed":13.9,"energy":0.0899,"maxPower":null,"svaMandatory":true,"permissionSva":false,"svaLabel":"SVA obligatorio","cashbackEligible":false,"notes":"RL2. Fijo mensual y energía. SVA gas obligatorio.","energyIva":0.108779,"gasFixedIva":16.819,"shortName":"Gas RL.2 V10"},{"id":"gas-rl2-v11","name":"Gas RL.2 V11","group":"Gas","type":"gas","gasFixed":13.9,"energy":0.0799,"maxPower":null,"svaMandatory":true,"permissionSva":false,"svaLabel":"SVA obligatorio","cashbackEligible":false,"notes":"RL2. Fijo mensual y energía. SVA gas obligatorio.","energyIva":0.096679,"gasFixedIva":16.819,"shortName":"Gas RL.2 V11"},{"id":"gas-rl2-v12","name":"Gas ahorro RL.2 V12","group":"Gas","type":"gas","gasFixed":13.9,"energy":0.0699,"maxPower":null,"svaMandatory":true,"permissionSva":false,"svaLabel":"SVA obligatorio","cashbackEligible":false,"notes":"RL2. Fijo mensual y energía. SVA gas obligatorio.","energyIva":0.084579,"gasFixedIva":16.819,"shortName":"Gas ahorro RL.2 V12"},{"id":"gas-rl3-v10","name":"Gas RL.3 V10","group":"Gas","type":"gas","gasFixed":22.9,"energy":0.0899,"maxPower":null,"svaMandatory":true,"permissionSva":false,"svaLabel":"SVA obligatorio","cashbackEligible":false,"notes":"RL3. Fijo mensual y energía. SVA gas obligatorio.","energyIva":0.108779,"gasFixedIva":27.709,"shortName":"Gas RL.3 V10"},{"id":"gas-rl3-v11","name":"Gas RL.3 V11","group":"Gas","type":"gas","gasFixed":22.9,"energy":0.0799,"maxPower":null,"svaMandatory":true,"permissionSva":false,"svaLabel":"SVA obligatorio","cashbackEligible":false,"notes":"RL3. Fijo mensual y energía. SVA gas obligatorio.","energyIva":0.096679,"gasFixedIva":27.709,"shortName":"Gas RL.3 V11"},{"id":"gas-rl3-v12","name":"Gas ahorro RL.3 V12","group":"Gas","type":"gas","gasFixed":22.9,"energy":0.0699,"maxPower":null,"svaMandatory":true,"permissionSva":false,"svaLabel":"SVA obligatorio","cashbackEligible":false,"notes":"RL3. Fijo mensual y energía. SVA gas obligatorio.","energyIva":0.084579,"gasFixedIva":27.709,"shortName":"Gas ahorro RL.3 V12"}];
 
   var DOCS_ALTAS = [
     {title:"Alta 1ª ocupación", email:"doc.altas@repsolluzygas.com", when:["Suministro que nunca ha tenido luz/gas.","Suministro con mucha antigüedad que necesita nuevo boletín eléctrico.","Gas con más de 3 años de antigüedad."], docs:["DNI.","Escritura de propiedad hasta apartado exponen o contrato de alquiler.","Boletín eléctrico/gas."], note:"Documentación antes de hacer la venta en portal."},
@@ -3798,8 +3798,8 @@
 
   
   function rateGroupOrder(group, type){
-    if(type === "gas") return 80;
-    if(type === "luz30") return group === "3.0TD DH" ? 95 : 90;
+    if(type === "gas") return 110;
+    if(type === "luz30") return group === "3.0TD DH" ? 100 : 90;
     var order = {
       "Precio fijo":10,
       "Precio fijo Pyme":20,
@@ -3823,6 +3823,14 @@
       var ga = rateGroupOrder(a.group, a.type);
       var gb = rateGroupOrder(b.group, b.type);
       if(ga !== gb) return ga - gb;
+      if(a.type === "gas" && b.type === "gas"){
+        var fa = Number(a.gasFixed || 0);
+        var fb = Number(b.gasFixed || 0);
+        if(fa !== fb) return fa - fb;
+      }
+      var ea = Number(a.energy || 0);
+      var eb = Number(b.energy || 0);
+      if(ea !== eb) return eb - ea;
       var pa = Number(a.maxPower || 0);
       var pb = Number(b.maxPower || 0);
       if(pa !== pb) return pa - pb;
@@ -3931,7 +3939,7 @@
 
   function renderCalcSelectors(){
     if($("calcTariff")){
-      $("calcTariff").innerHTML = tariffOptionGroups(TARIFFS.filter(function(t){ return t.type !== "luz30"; }), $("calcTariff").value);
+      $("calcTariff").innerHTML = tariffOptionGroups(TARIFFS.filter(function(t){ return t.type !== "luz30" && !t.excludeFromCalculator; }), $("calcTariff").value);
     }
     if($("calcService")) $("calcService").innerHTML = serviceOptions("none", true);
     renderCalc3Selectors();

diff --git a/service-worker.js b/service-worker.js
@@ -1,5 +1,5 @@
-const CACHE_NAME = "ventas-sph-v10-8-tarifas";
-const ASSETS = ["./", "./index.html", "./manifest.json", "./icon-192.png", "./icon-512.png"];
+const CACHE_NAME = "ventas-sph-v10-11-tarifas-logo-ajustes";
+const ASSETS = ["./", "./index.html", "./manifest.json", "./favicon.svg", "./icon-180.png", "./icon-192.png", "./icon-512.png"];
 self.addEventListener("install", event => { event.waitUntil(caches.open(CACHE_NAME).then(cache => cache.addAll(ASSETS))); self.skipWaiting(); });
 self.addEventListener("activate", event => { event.waitUntil(caches.keys().then(keys => Promise.all(keys.map(key => key !== CACHE_NAME ? caches.delete(key) : null)))); self.clients.claim(); });
 self.addEventListener("fetch", event => { event.respondWith(caches.match(event.request).then(response => response || fetch(event.request))); });
